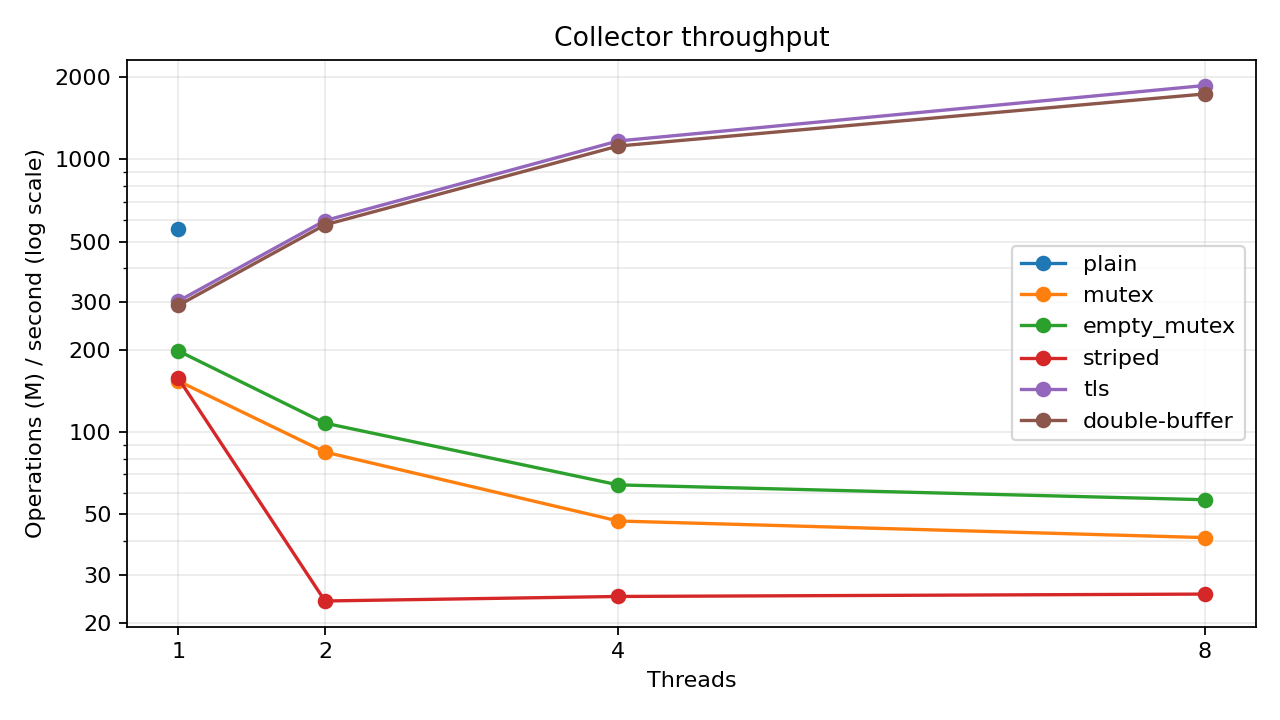
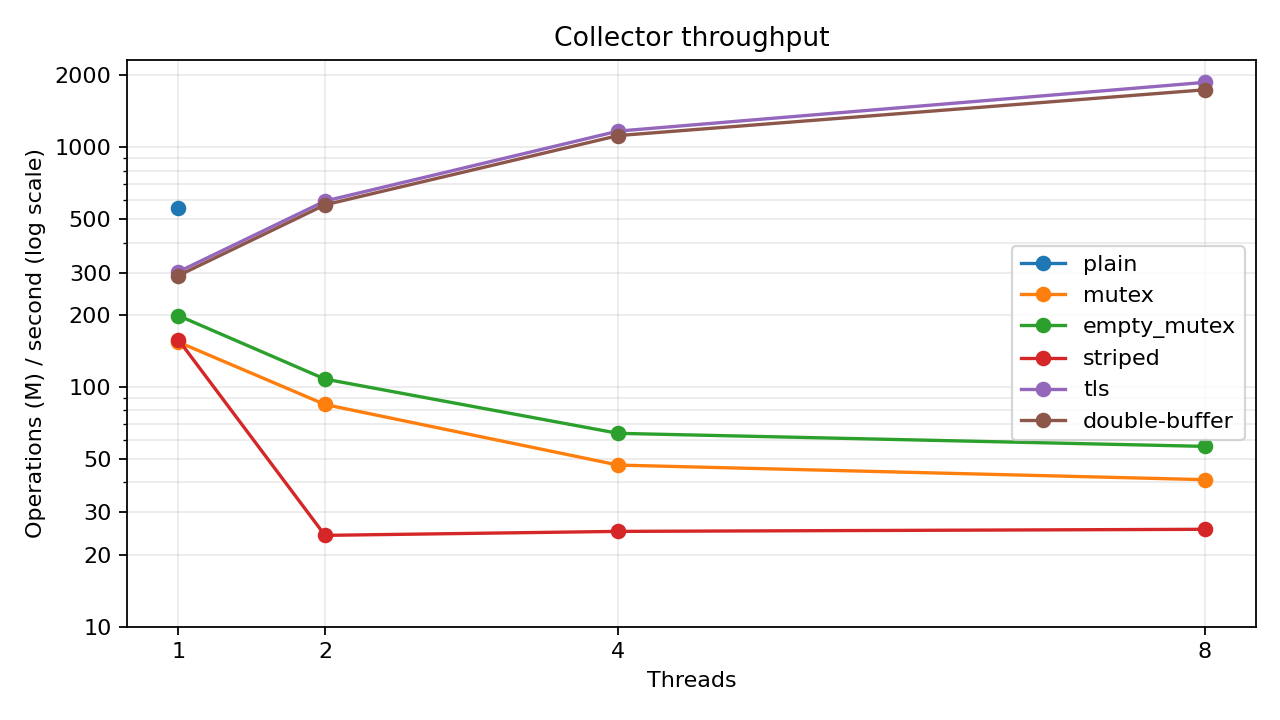
answers

diff --git a/lab1/plot_benchmark.py b/lab1/plot_benchmark.py
@@ -26,7 +26,7 @@ def main():
     axis.set_xlabel("Threads")
     axis.set_ylabel("Operations (M) / second (log scale)")
     axis.set_yscale("log")
-    y_ticks = [20, 30, 50, 100, 200, 300, 500, 1000, 2000]
+    y_ticks = [10, 20, 30, 50, 100, 200, 300, 500, 1000, 2000]
     axis.set_yticks(y_ticks, labels=[str(value) for value in y_ticks])
     axis.yaxis.set_minor_formatter(NullFormatter())
     axis.grid(True, which="both", alpha=0.25)

diff --git a/lab1/README.md b/lab1/README.md
@@ -690,7 +690,7 @@ record(value):
 | :--- | :--- |
 | **1. Пустой лок против полного:** Почему пустой лок тоже резко падает с ростом потоков? Что добавляет полная версия? | Все операции с локом - далеко не бесплатные, процессор тратит время на переключение, конкуренцию за мьютекс, на то, чтобы разбудить поток. Полная версия добавляет "полезную работу", она, очевидно, тоже не бесплатная. |
 | **2. Провал шардирования и атомиков:** Почему 16 шардов и атомарная сводка на этапе 2 не спасли скорость записи на законе Ципфа? Куда переехало узкое место? | Проблема исходит из распределения - в первые корзины попадает большая часть записей, потоки продолжают активно бороться, когда дело доходит до более "популярных" значений. Также задержки на атомарных общих переменных-счетчиках. |
-| **3. Замедление на этапе 3:** Почему на этапе 3 рост скорости замедляется после 8 потоков? Как это связано с выводом `lscpu`? | Ядра не одинаковые - некоторые из них производительные, некоторые - энергоэффективные. С ростом числа потоков увеличивается и доля потоков, выпадающих на энергоэффективные ядра. |
+| **3. Замедление на этапе 3:** Почему на этапе 3 рост скорости замедляется после 8 потоков? Как это связано с выводом `lscpu`? | Ядра бывают разные:  производительные (P-core), некоторые - энергоэффективные (E-core). С ростом числа потоков увеличивается и доля потоков, выпадающих на энергоэффективные ядра. На моем ноутбуке все ядра однородные. |
 | **4. Двойная буферизация против TLS:** Почему этап 4 медленнее этапа 3 (в C++ в 2,5–3,5 раза, в Java в 1,1–1,7 раза, а на 16 потоках Java почти догоняет этап 3), но масштабируется почти линейно? В чём разница инструкций при записи? | Основная логика использования собственных буферов сохранилась, разница в том, что перед каждой записью добавляется атомарная попытка "утвердить", что мы пишем в конкретный из двух буферов. |
 | **5. Эксперимент с шагом 3:** Что сломалось в тесте на этапе 4, когда вы убрали повторную проверку `active == b`? Почему итоговый `count` расходится с числом вызовов? | Если повторной проверки нет, то случается ситуация, когда читатель переключает active, и record фактически игнорирует контракт и начинает писать в "старый" буфер, что приводит к тому, что данные, которые читатель начал читать, в этот же момент изменяются. |
 
